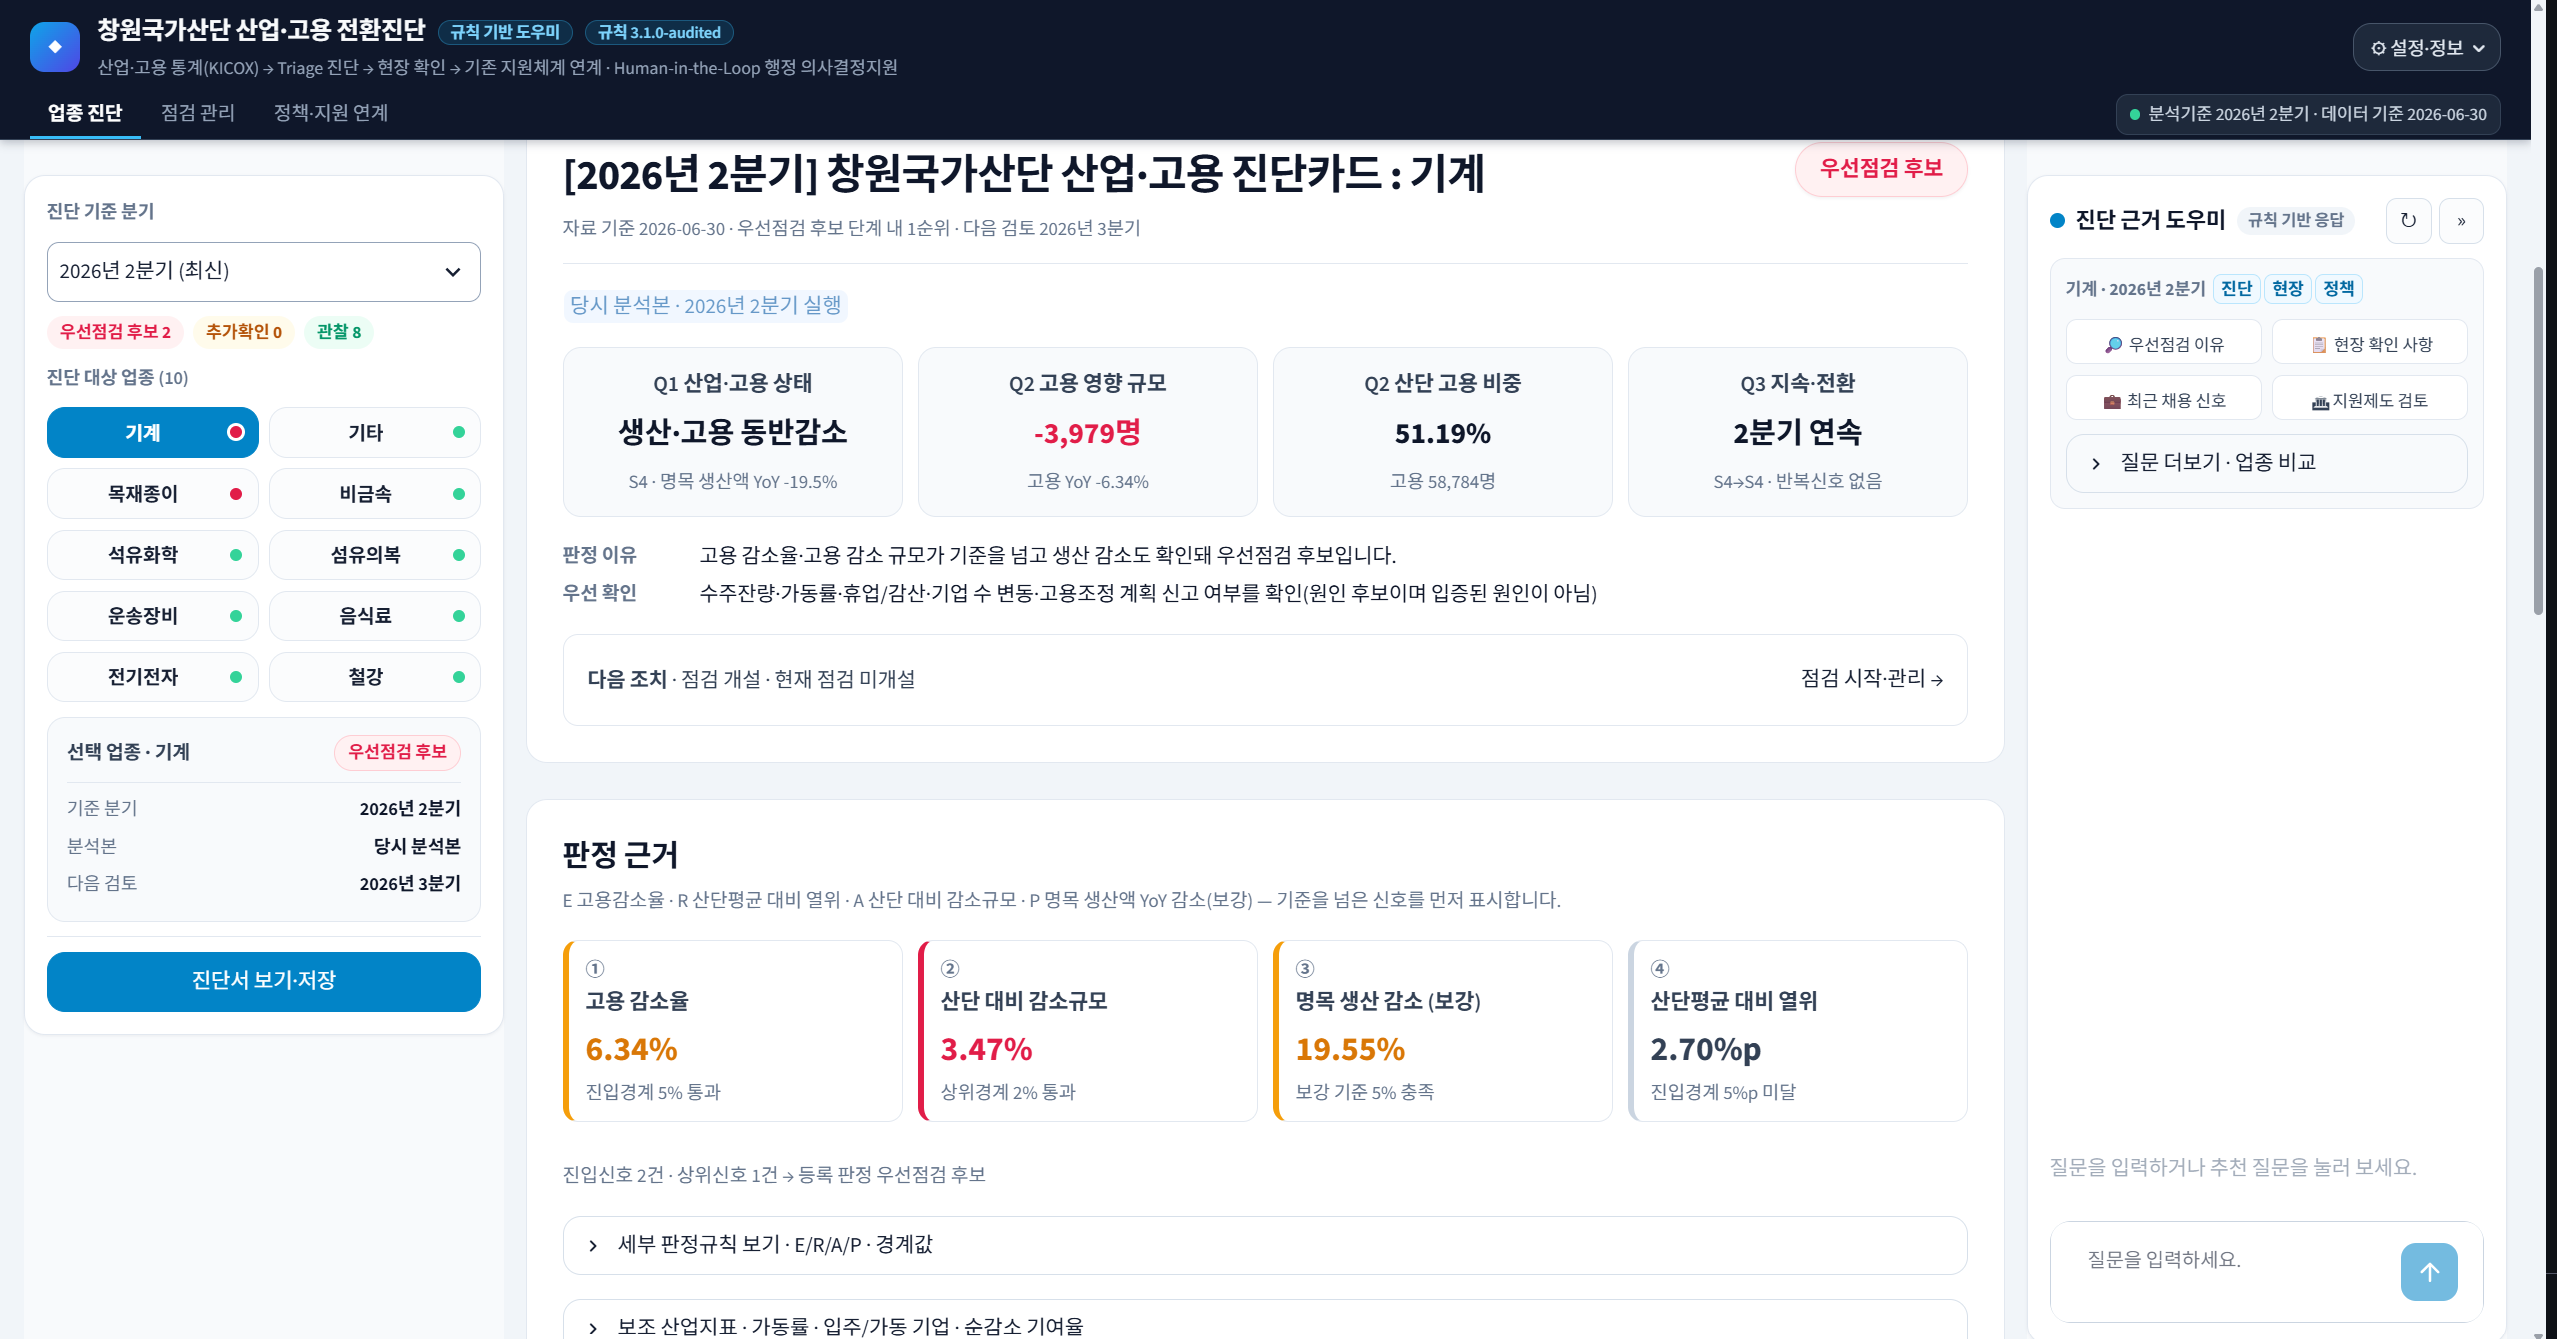
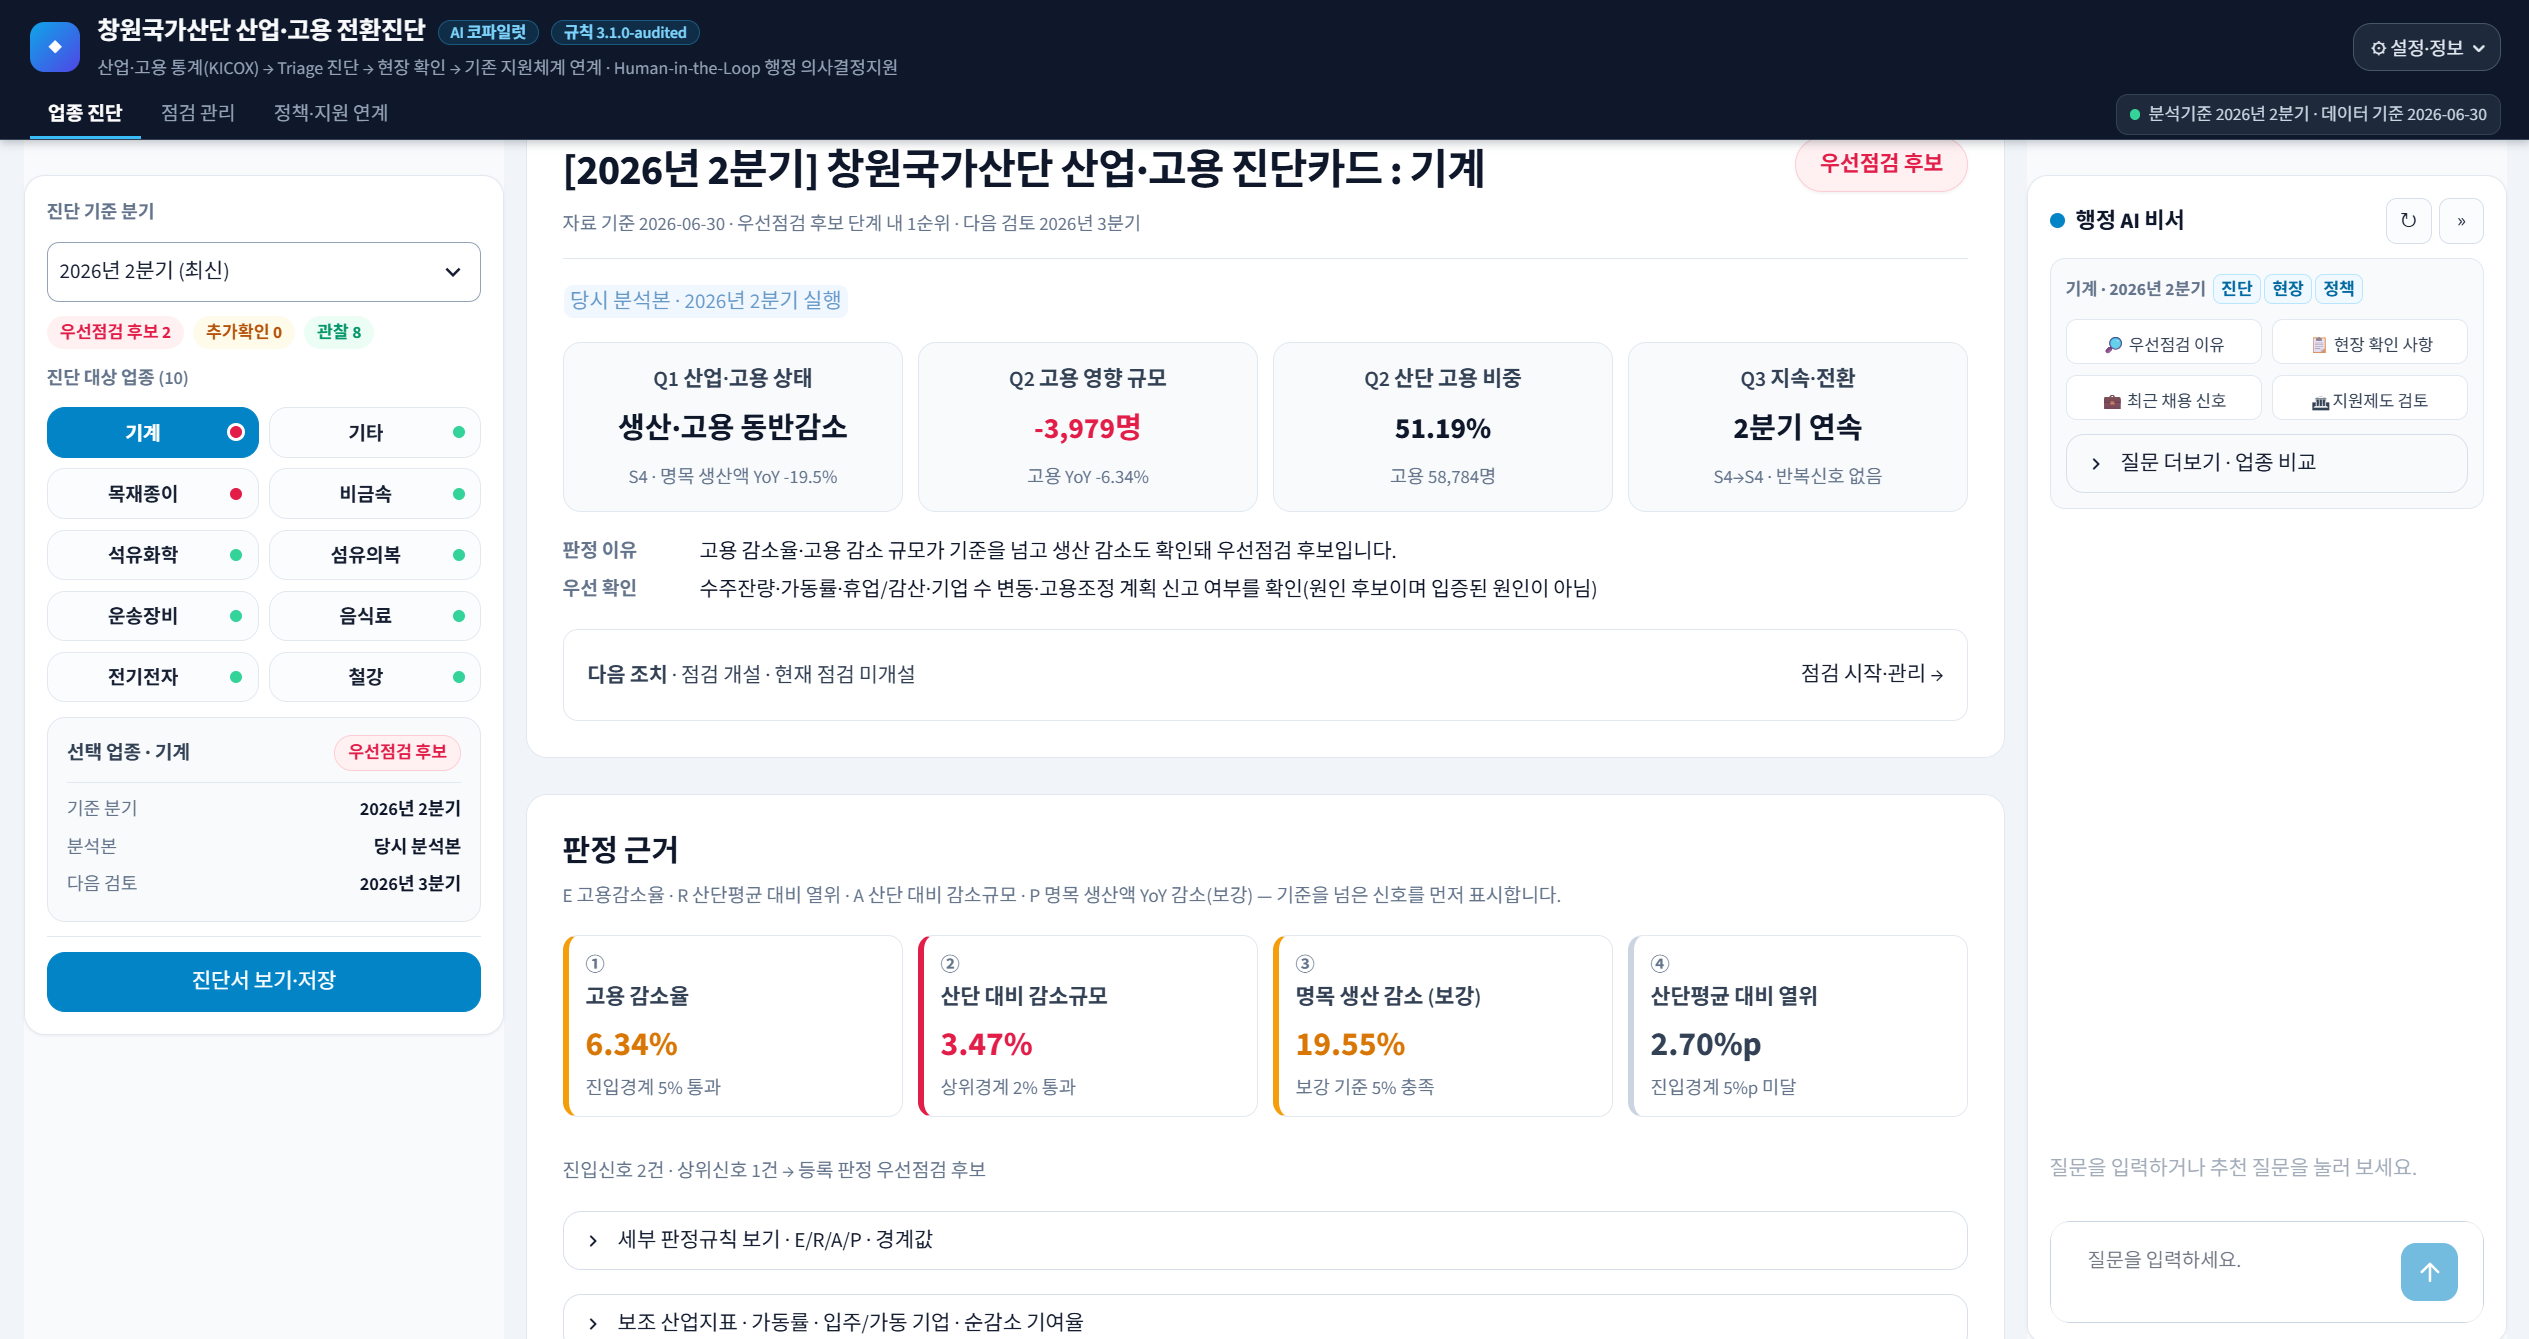
docs: refresh screenshots and Gemini assistant copy

diff --git a/README.md b/README.md
@@ -5,9 +5,9 @@
 `분석·시스템·배포 완료` · [Streamlit 앱 실행](https://changwon-industry-employment-monitor-cyfkaj7ycpbpdxofbxcjkt.streamlit.app/) · `Python 3.11+`
 
 <p align="center">
-  <img src="assets/streamlit-industry-diagnosis-2026Q2-final.png" alt="배포된 Streamlit 앱의 2026년 2분기 점검 대기열과 기계 업종 진단 화면" width="1100">
+  <img src="assets/streamlit-industry-diagnosis-2026Q2-final.png" alt="Gemini가 연결된 배포 Streamlit 앱의 2026년 2분기 점검 대기열과 행정 AI 비서" width="1100">
 </p>
-<p align="center"><sub>실제 배포 화면 — 2026년 2분기 점검 대기열, 기계 업종 진단카드와 진단 근거 도우미</sub></p>
+<p align="center"><sub>실제 배포 화면 — 2026년 2분기 점검 대기열, 기계 업종 진단카드와 행정 AI 비서</sub></p>
 
 ## 1. 프로젝트 배경
 
@@ -109,7 +109,7 @@ PPI는 명목 생산 방향에 가격효과가 섞였는지, EIS는 모집단이
 
 - **Recruitment Evidence:** 고용24 공개공고의 기업·직무·경력·지역 정보를 기업·공장등록·업종과 품질을 표시하며 연결한다. 우선점검 업종에서 **어떤 기업에 무엇을 물을지** 구체화한다. 공고 수는 업종 전체 노동수요나 미충원 규모가 아니다.
 - **정책·기관 Routing:** 공식 사업의 대상·요건·담당기관·문의 경로와 기존 기업지원·고용지원·훈련·위기대응 기능을 탐색한다. 담당자가 현장 확인 후 실제 적합성과 접수 상태를 판단하고 인계를 기록한다. `공모전 팀 제안`은 현재 시행 중인 공식 사업과 구분한다.
-- **진단 근거 도우미·선택적 AI:** 기본 규칙 기반 응답으로 등록 진단을 설명하고 공식 정책문서를 RAG로 검색하며 근거 유형·출처를 보여준다. Gemini 키가 있으면 근거 기반 문장을 작성·요약하지만 숫자·판정·인용 검사를 통과해야 한다. 실패하거나 키가 없으면 등록 진단·검색 결과로 대체한다. AI는 분석을 재계산하거나 정책을 자동 결정하지 않는다.
+- **행정 AI 비서:** 현재 배포본은 Gemini가 연결되어 등록 진단을 설명하고 공식 정책문서를 RAG로 검색하며 근거 유형·출처와 실제 사용 provider를 보여준다. Gemini가 작성·요약한 문장은 숫자·판정·인용 검사를 통과해야 하며, 실패하면 등록 진단·검색 결과로 되돌아간다. Gemini가 연결되지 않은 실행에서는 `진단 근거 도우미·규칙 기반 응답`으로 표시한다. AI는 분석을 재계산하거나 정책을 자동 결정하지 않는다.
 
 ## 6. 구현 화면과 주요 산출물
 
@@ -119,9 +119,11 @@ PPI는 명목 생산 방향에 가격효과가 섞였는지, EIS는 모집단이
 | **점검 관리** | 점검 후보·진행 중·종결 구분, 점검건 개설, 기업·현장 확인, 지원 필요 기능·결정·인계·다음 검토 분기 기록 |
 | **정책·지원 연계** | 공식 사업 카드·기관·근거 검색·기업마당 공고 확인, 별도 팀 제안 열람 |
 | **설정·정보** | 담당자·분석 버전·데이터 기준·연결 상태 확인, 방법론·데이터 기준 및 변경 기록 열람 |
-| **진단 근거 도우미** | 기본 규칙 기반 등록 진단 설명·공식 문서 질의응답, Gemini 설정 시 근거 기반 문장 작성·요약 |
+| **행정 AI 비서** | 등록 진단·공식 문서 기반 질의응답, Gemini 근거 기반 문장 작성·요약, 수치·판정·인용 검증과 실패 시 원문 복귀 |
 
 화면은 등록 분석본(`snapshots/`)을 읽고 점검 기록을 로컬 DB에 저장한다. 화면에서 Q1~Q3나 Triage를 다시 계산하지 않는다. 주요 산출물은 [최종 방법론](reports/final_methodology.md), [최종 결과 요약](reports/final_result_summary.md), [업종별 진단카드](outputs/final_model/05_handoff/tables/industry_diagnostic_cards_2026Q2.csv), [최종 결과 HTML](outputs/final_model/06_report_assets/final_results.html)에서 확인할 수 있다.
+
+`진단서 보기·저장`에서 만드는 담당자 인계용 HTML·JSON에는 핵심 판정과 지표, 현재 확인상태와 다음 행동, 우선 확인사항, 지원 검토, 채용시장 보조신호, 자료 기준이 포함된다. 이 진단서는 행정처분이나 기업별 지원대상 확정 문서가 아니다.
 
 > **공개 배포본 안내:** 현재 앱은 사용자 인증이 연결되지 않은 프로토타입이다. 실제 개인정보나 기업 비공개정보를 입력하지 않아야 한다. 기본 로컬 SQLite 업무기록은 배포 환경의 재시작·재배포 시 영구 보존을 보장하지 않는다.
 
